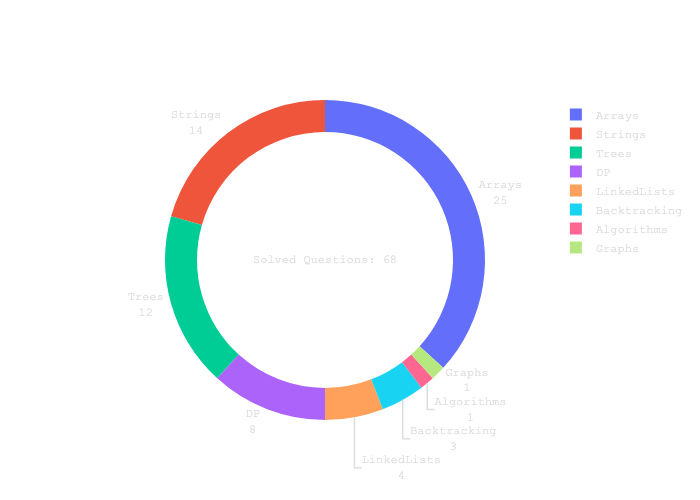
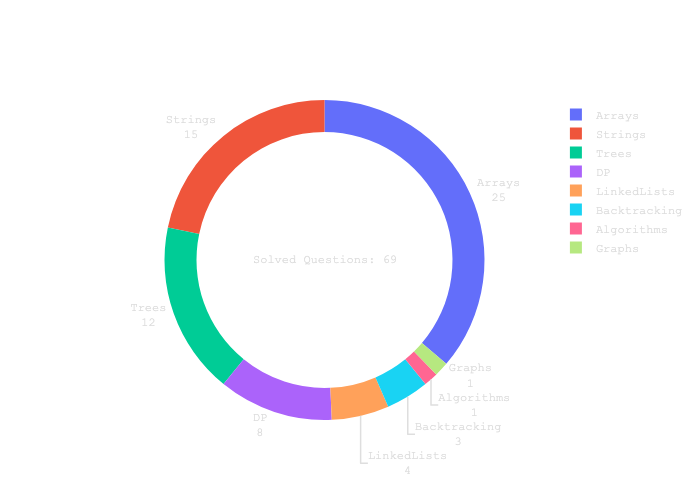
reverse strings in place

diff --git a/Strings/reverseInPlace.py b/Strings/reverseInPlace.py
@@ -1,0 +1,18 @@
+from typing import List
+
+
+def reverseString(s: List[str]) -> None:
+    N = len(s)
+    l, r = 0, N - 1
+    while l <= r:
+        s[l], s[r] = s[r], s[l]
+        l += 1
+        r -= 1
+    print(s)
+    return
+
+
+reverseString(["h", "e", "l", "l", "o"])
+reverseString(["H", "a", "n", "n", "a", "h"])
+reverseString([])
+reverseString(["A"])
